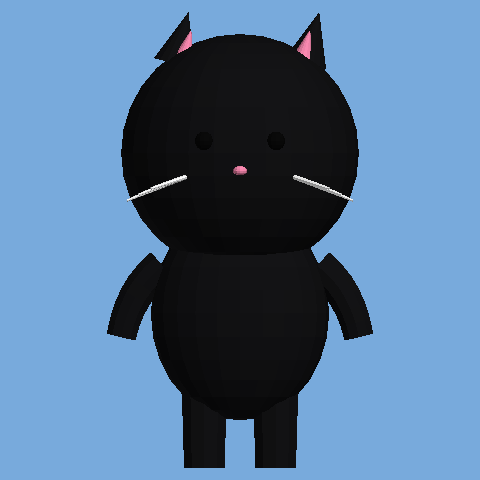
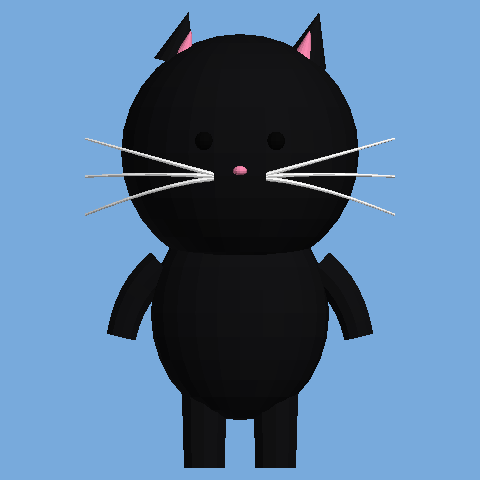
Cat whiskers: roots bunch at the muzzle, tips fan out away from the face

diff --git a/Core/src/Shapes/CostumeModels.cs b/Core/src/Shapes/CostumeModels.cs
@@ -111,25 +111,17 @@ namespace WobblyMods.Core.Shapes
             var nose = Shapes.Ellipsoid(new V3(0.06f, 0.04f, 0.05f), 12, 8);
             costume.Head.Add(Part(nose, Pink, One, 0f, 0f, new V3(0f, -0.15f, 0.98f)));
 
-            // Whiskers: three thin white whiskers per side fanning out from (+/-0.45, -0.2, 0.85)
+            // Whiskers: three thin white whiskers per side. The roots bunch together on the muzzle beside the
+            // nose, and the tips fan out and away from the face (one up, one level, one down).
             for (int s = -1; s <= 1; s += 2)
             {
-                // Fan angles: roughly -15, 0, +15 degrees in X-Z plane relative to forward
-                float[] whiskerAngles = { -0.26f, 0f, 0.26f }; // approx tan(15 deg)
-                
+                float[] fan = { 0.32f, 0f, -0.32f };
                 for (int i = 0; i < 3; i++)
                 {
-                    float angle = whiskerAngles[i];
-                    // Base is fixed. Tip moves out in X and slightly down/back in Z/Y
-                    V3 p0 = new V3(s * 0.45f, -0.2f, 0.85f);
-                    // Control points to create a slight curve outward
-                    float xOff = s * (0.3f + i * 0.1f);
-                    float yOff = -0.1f - i * 0.05f;
-                    float zOff = 0.15f - i * 0.02f;
-                    
-                    V3 p1 = new V3(p0.X + xOff * 0.5f, p0.Y + yOff * 0.5f, p0.Z + zOff * 0.5f);
-                    V3 p2 = new V3(p0.X + xOff * 0.8f, p0.Y + yOff * 0.8f, p0.Z + zOff * 0.8f);
-                    V3 p3 = new V3(p0.X + xOff, p0.Y + yOff, p0.Z + zOff);
+                    V3 p0 = new V3(s * 0.22f, -0.2f + fan[i] * 0.05f, 0.95f);
+                    V3 p3 = new V3(s * 1.3f, -0.2f + fan[i], 0.55f);
+                    V3 p1 = new V3(s * 0.55f, p0.Y + (p3.Y - p0.Y) * 0.2f + 0.03f, 0.97f);
+                    V3 p2 = new V3(s * 0.95f, p0.Y + (p3.Y - p0.Y) * 0.6f + 0.02f, 0.82f);
 
                     var whiskerMesh = Pipe(p0, p1, p2, p3, 6, 0.02f, 0.01f, 8);
                     costume.Head.Add(new ColoredMesh(whiskerMesh, White));
